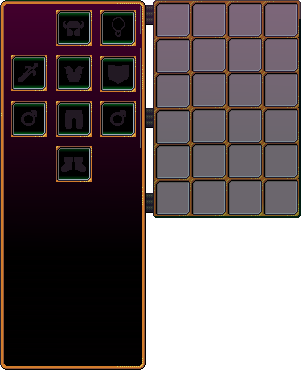
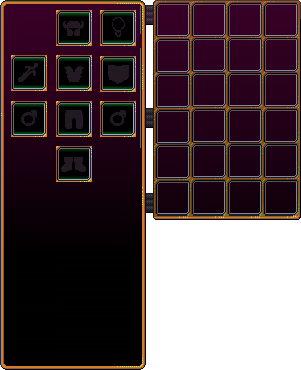
updated ui, added item file, and added additional item text to item data window
updated ui, added item file, and added additional item text to item data window

Changed region(s): [[0.5083, 0.0, 1.0, 0.5946]]

diff --git a/rpg/storage.py b/rpg/storage.py
@@ -1,6 +1,6 @@
 import arcade
 import random
-
+from item import Item
 
 INV_OFFSET = 60
 
@@ -23,15 +23,6 @@ EQUIPMENT_SLOTS_CONFIG = [
     ("boots", -77,  20)
 ]
 
-class Item(arcade.Sprite):
-    def __init__(self, filename, scale=1, mapped_slot_position=None, slot_index=None):
-        super().__init__(filename, scale)
-        self.center_x, self.center_y = mapped_slot_position
-        self.slot_index = slot_index
-        self.equipment_slot_index = None
-        self.original_slot_index = slot_index
-        self.foo_stat = random.randint(1, 100)
-
 class Inventory(arcade.Sprite):
     def __init__(self, filename, window_width, window_height, scale=1):
         super().__init__(filename, scale)
@@ -48,6 +39,7 @@ class Inventory(arcade.Sprite):
         }
         self.map_slots()
         self.item_list = arcade.SpriteList()
+        self.item_data_window = arcade.Sprite("assets/gui/storage/item_data_window.png", scale=1)
 
     def add_new_item(self):
         available_slot = self.find_next_available_slot()
@@ -55,7 +47,8 @@ class Inventory(arcade.Sprite):
             new_item = Item(
                 filename=random.choice(["assets/test_item1.png", "assets/test_item2.png", "assets/test_item3.png"]),
                 slot_index=available_slot,
-                mapped_slot_position=self.mapped_slots['inventory'][available_slot]
+                mapped_slot_position=self.mapped_slots['inventory'][available_slot],
+                item_type=random.choice(["helmet", "necklace", "offhand", "chest"])
             )
             self.item_list.append(new_item)
         else:
@@ -116,9 +109,20 @@ class Inventory(arcade.Sprite):
             if hovered_item:
                 item = hovered_item[0]
                 x, y = item.center_x, item.center_y
-                stats_text = f"Foo Stat: {item.foo_stat}"
-                arcade.draw_rectangle_filled(x, y + 20, 100, 30, arcade.color.BLACK)
-                arcade.draw_text(stats_text, x - 45, y + 15, arcade.color.WHITE, font_size=12)
+
+                stats_text = f"Test Stat: {item.foo_stat}"
+                index_text = f"Index: {item.slot_index}"
+                item_type_text = f"Type: {item.item_type}"
+
+                # Update the sprite's position
+                self.item_data_window.center_x = x - 50
+                self.item_data_window.center_y = y + 118
+                self.item_data_window.draw()  # Draw the sprite
+
+                # Draw text on top of the sprite
+                arcade.draw_text(stats_text, x - 110, y + 200, arcade.color.WHITE, font_size=12, bold=True)
+                arcade.draw_text(index_text, x - 108, y + 180, arcade.color.WHITE, font_size=12, bold=True)
+                arcade.draw_text(item_type_text, x - 110, y + 160, arcade.color.WHITE, font_size=12, bold=True)
 
     def draw(self, control_key_pressed, pointer):
         super().draw()
@@ -162,11 +166,25 @@ class Inventory(arcade.Sprite):
             if self.grabbed_item.collides_with_sprite(slot_sprite):
                 slot_number_attr = 'slot_number' if slot_type == 'inventory' else 'equipment_slot_index'
                 slot_number = getattr(slot_sprite, slot_number_attr)
+
+                # Check for equipment slots and verify the item type
                 if slot_type == 'equipment':
                     slot_number += len(self.mapped_slots['inventory'])
+                    expected_equipment_type = EQUIPMENT_SLOTS_CONFIG[slot_number - len(self.mapped_slots['inventory'])][0]
+                    if self.grabbed_item.item_type != expected_equipment_type:
+                        continue  # Skip this slot if the item type doesn't match
 
                 existing_item = next((item for item in self.item_list if item.slot_index == slot_number), None)
 
+                # If we're trying to place an item in an equipment slot and the existing item type doesn't match, continue
+                if existing_item and slot_type == 'equipment' and existing_item.item_type != self.grabbed_item.item_type:
+                    continue
+
+                # If we're swapping between inventory and equipment and the types don't match, deny the swap
+                if existing_item and self.grabbed_item.original_slot_index < len(self.mapped_slots['inventory']) and existing_item.slot_index >= len(self.mapped_slots['inventory']) and existing_item.item_type != self.grabbed_item.item_type:
+                    continue
+
+                # If the slot is occupied, swap the items
                 if existing_item:
                     existing_item.slot_index = self.grabbed_item.original_slot_index
                     existing_item.center_x, existing_item.center_y = self.get_mapped_slot(existing_item.slot_index)
@@ -177,7 +195,7 @@ class Inventory(arcade.Sprite):
                 self.grabbed_item = None
                 return True
         return False
-
+    
     def get_mapped_slot(self, slot_index):
         return self.mapped_slots['inventory'][slot_index] if slot_index < len(self.mapped_slots['inventory']) else self.mapped_slots['equipment'][slot_index - len(self.mapped_slots['inventory'])]
     
@@ -204,7 +222,6 @@ class Inventory(arcade.Sprite):
             self.update_slot_positions(self.equipment_slot_sprites, delta_x, delta_y)
             self.update_item_positions(delta_x, delta_y)
             self.recalculate_slot_mappings()  # Recalculate the slot mappings
-
         self.handle_item_drag_and_drop(pointer)
         self.item_list.update()
 

diff --git a/rpg/item.py b/rpg/item.py
@@ -1,0 +1,11 @@
+import arcade
+import random
+
+class Item(arcade.Sprite):
+    def __init__(self, filename, scale=1, mapped_slot_position=None, slot_index=None, item_type=None):
+        super().__init__(filename, scale)
+        self.center_x, self.center_y = mapped_slot_position
+        self.slot_index = slot_index
+        self.original_slot_index = slot_index
+        self.foo_stat = random.randint(1, 100)
+        self.item_type = item_type

diff --git a/rpg/views/home_view.py b/rpg/views/home_view.py
@@ -2,7 +2,6 @@ import arcade
 from pointer import Pointer
 from player import Player
 from storage import Inventory, Vault
-import random
 
 
 DEFAULT_SCREEN_WIDTH = 800
